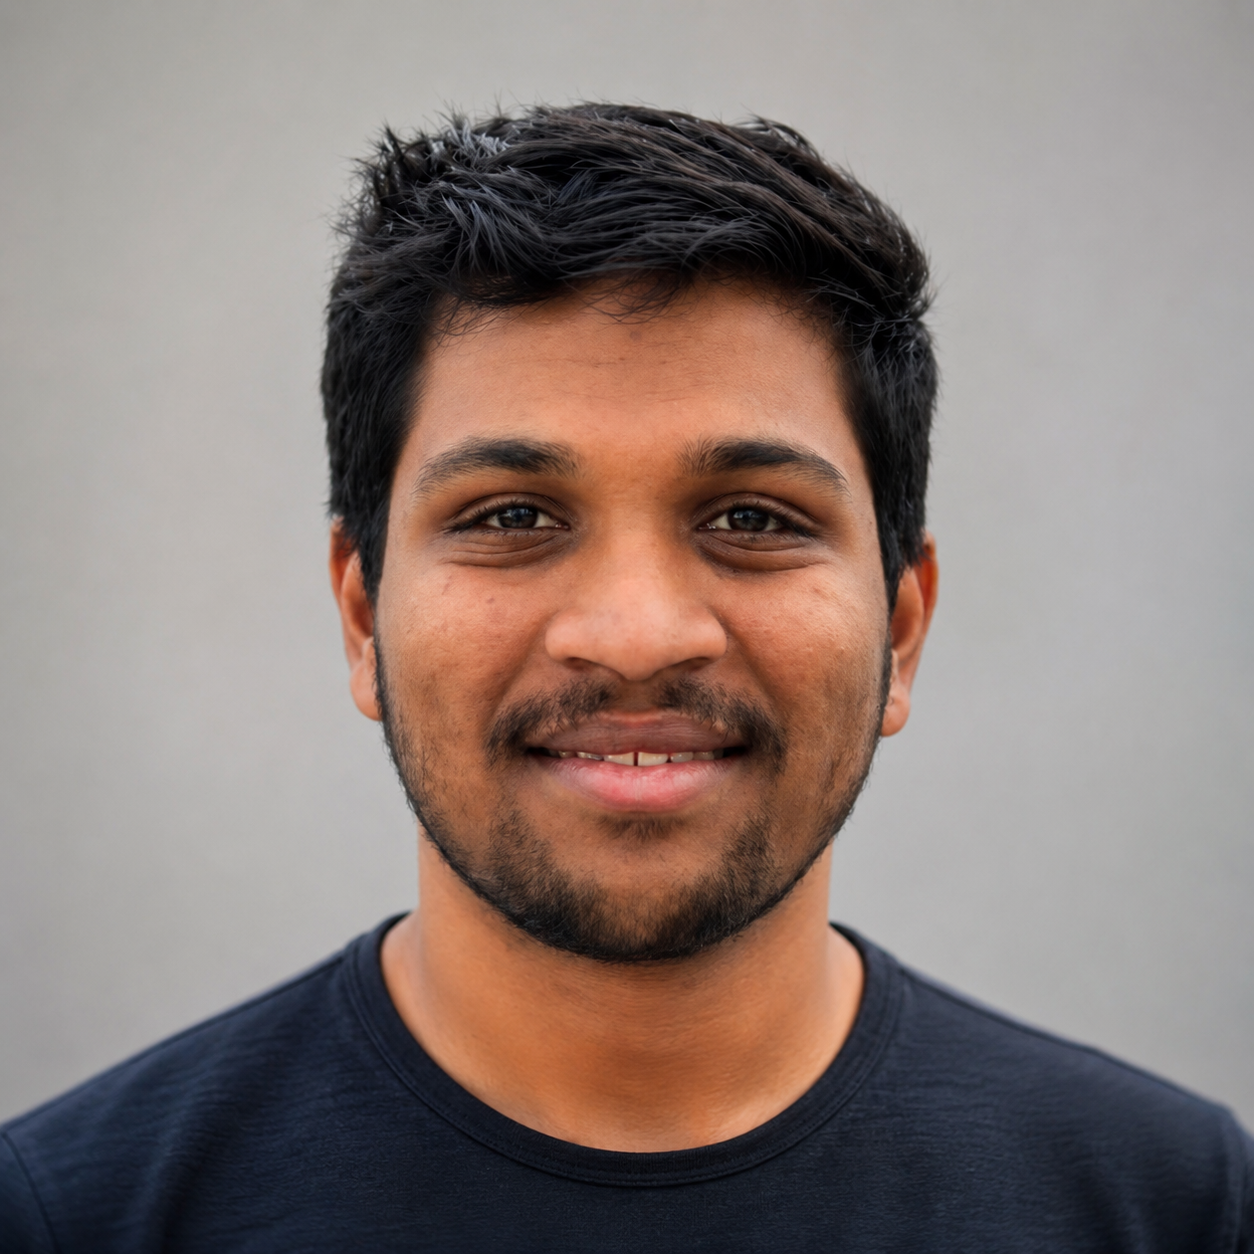
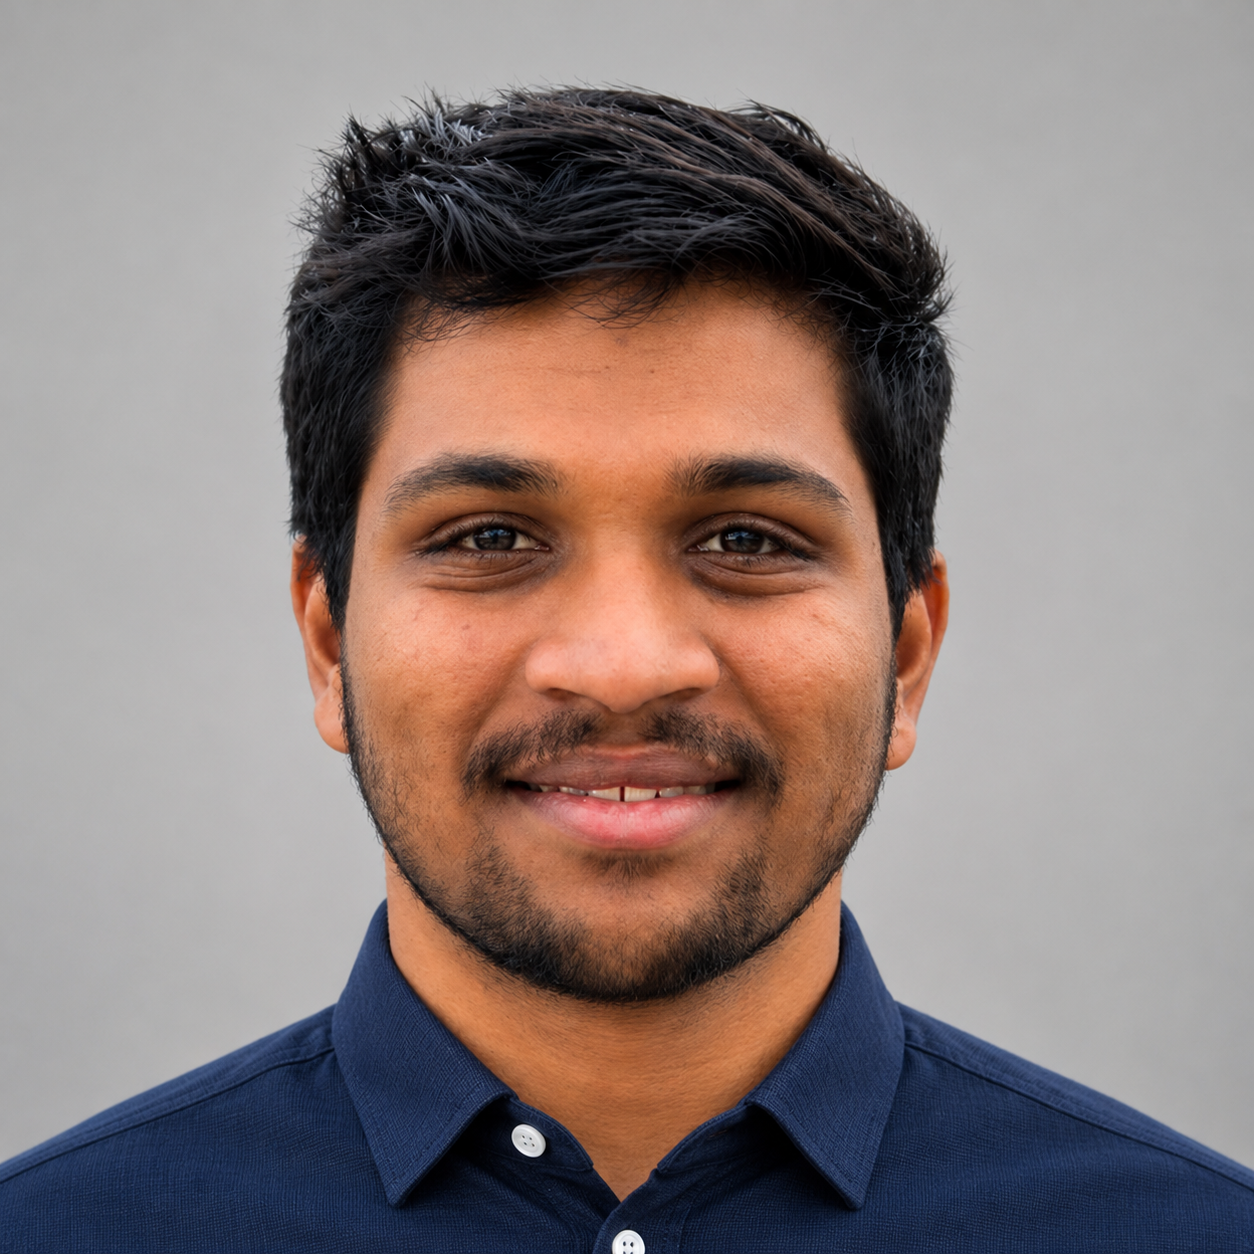
updated pic

diff --git a/blogs/index.html b/blogs/index.html
@@ -4,7 +4,7 @@
 		<meta charset="UTF-8" />
 		<meta name="viewport" content="width=device-width, initial-scale=1" />
 		<title>Blogs — Jayanth Chundru</title>
-		<link rel="icon" type="image/svg+xml" href="../images/jc-favicon.svg" />
+		<link rel="icon" type="image/svg+xml" href="../images/jc-favicon.svg?v=2" />
 		<link rel="preconnect" href="https://fonts.googleapis.com" />
 		<link rel="preconnect" href="https://fonts.gstatic.com" crossorigin />
 		<link rel="stylesheet" href="https://fonts.googleapis.com/css2?family=EB+Garamond:wght@400;500;600&display=swap" />

diff --git a/gallery/index.html b/gallery/index.html
@@ -4,7 +4,7 @@
 		<meta charset="UTF-8" />
 		<meta name="viewport" content="width=device-width, initial-scale=1" />
 		<title>Gallery — Jayanth Chundru</title>
-		<link rel="icon" type="image/svg+xml" href="../images/jc-favicon.svg" />
+		<link rel="icon" type="image/svg+xml" href="../images/jc-favicon.svg?v=2" />
 		<link rel="preconnect" href="https://fonts.googleapis.com" />
 		<link rel="preconnect" href="https://fonts.gstatic.com" crossorigin />
 		<link

diff --git a/index.html b/index.html
@@ -4,7 +4,7 @@
 		<meta charset="UTF-8" />
 		<meta name="viewport" content="width=device-width, initial-scale=1" />
 		<title>Jayanth Chundru</title>
-		<link rel="icon" type="image/svg+xml" href="images/jc-favicon.svg" />
+		<link rel="icon" type="image/svg+xml" href="images/jc-favicon.svg?v=2" />
 		<link rel="preconnect" href="https://fonts.googleapis.com" />
 		<link rel="preconnect" href="https://fonts.gstatic.com" crossorigin />
 		<link
